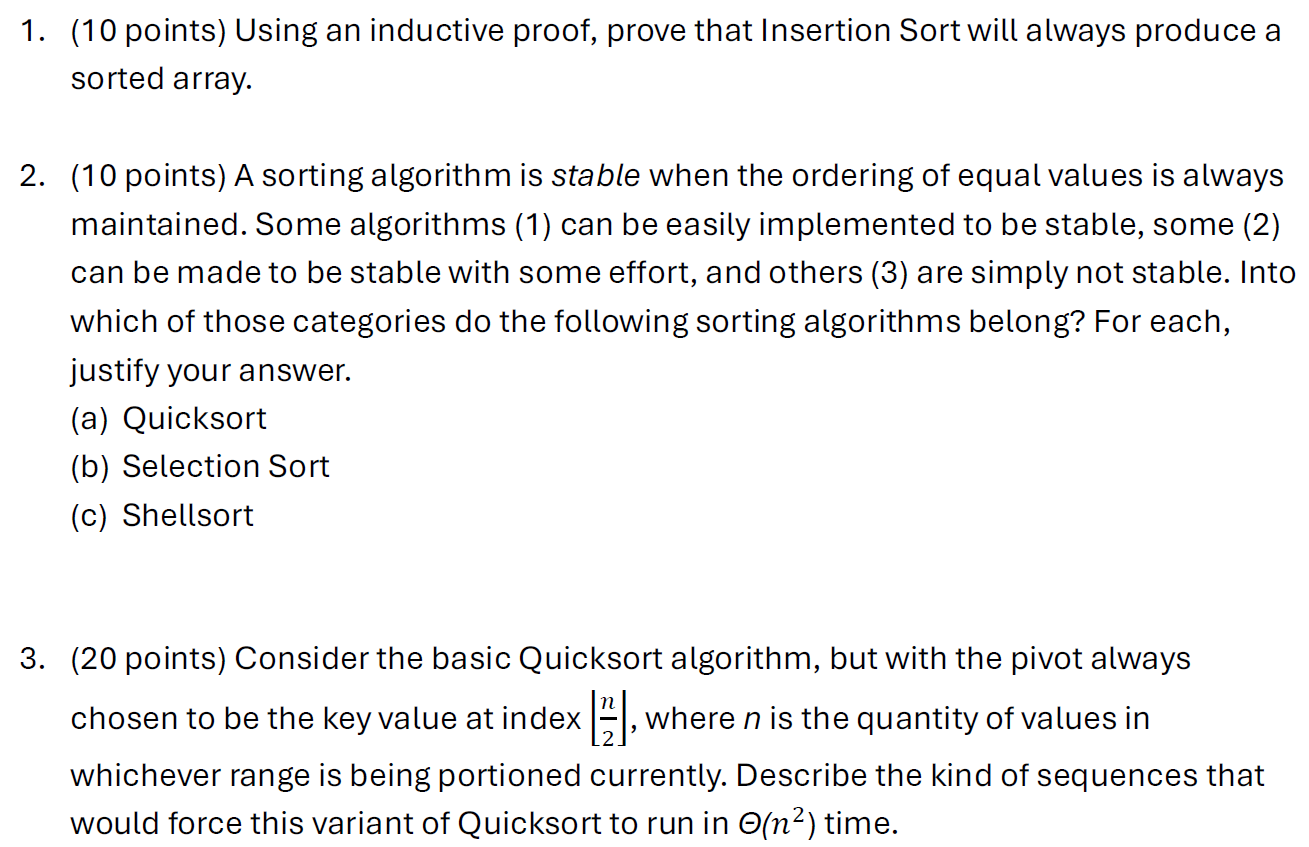
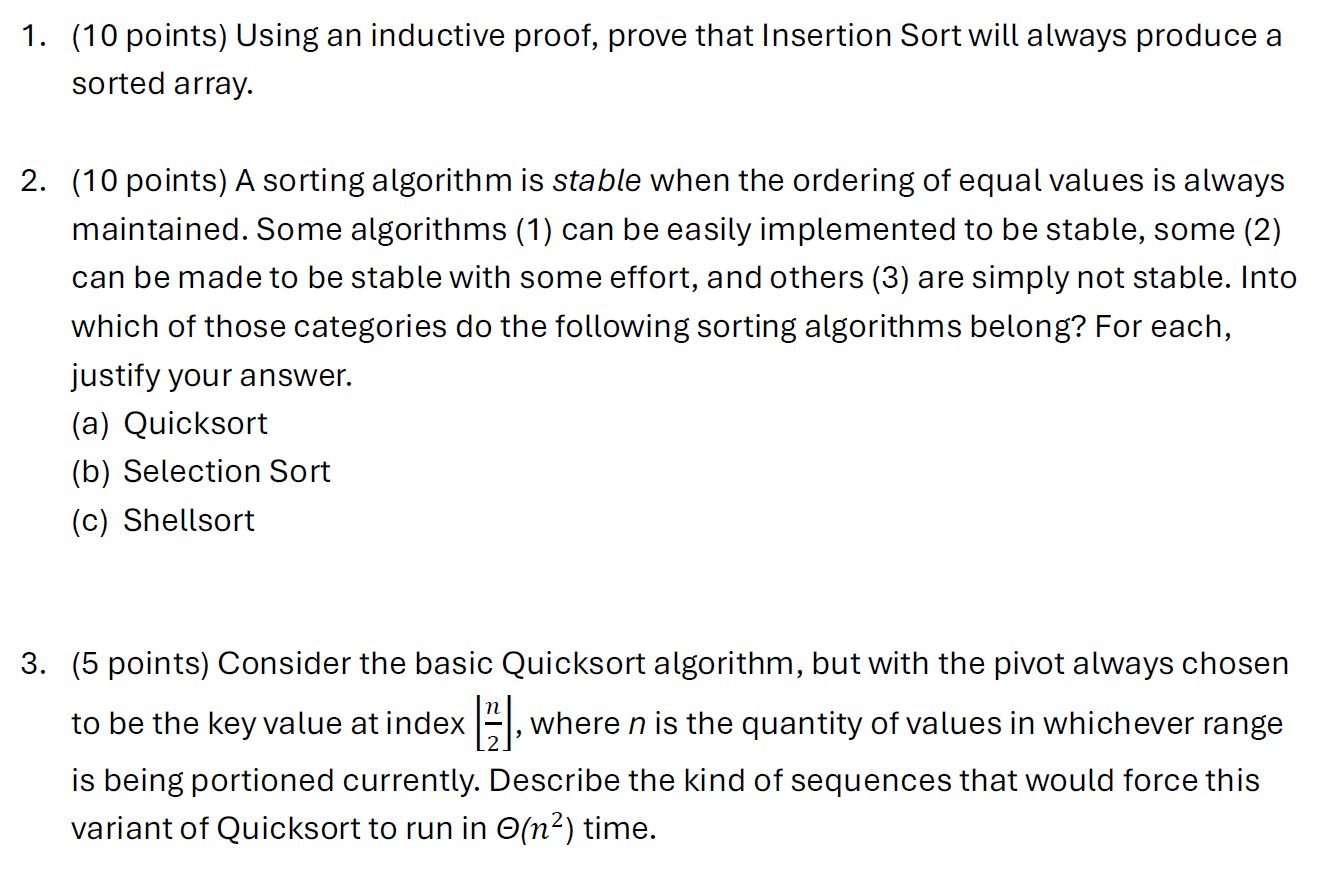
update

diff --git a/docs/hw3.html b/docs/hw3.html
@@ -363,7 +363,7 @@ ul.task-list li input[type="checkbox"] {
 
 <section id="directions" class="level1">
 <h1>Directions</h1>
-<p>This homework is due April 2nd at 3:30pm. If you need help, recall that Piazza and office hours are available. All homeworks are individual assignments, do your own work! Write complete, legible answers to the following questions, and submit them as a PDF on Gradescope. Be sure to assign pages to problems after you upload your PDF. This assignment is worth 130 points total.</p>
+<p>This homework is due April 2nd at 3:30pm. If you need help, recall that Piazza and office hours are available. All homeworks are individual assignments, do your own work! Write complete, legible answers to the following questions, and submit them as a PDF on Gradescope. Be sure to assign pages to problems after you upload your PDF. This assignment is worth 115 points total.</p>
 </section>
 <section id="questions" class="level1">
 <h1>Questions</h1>
